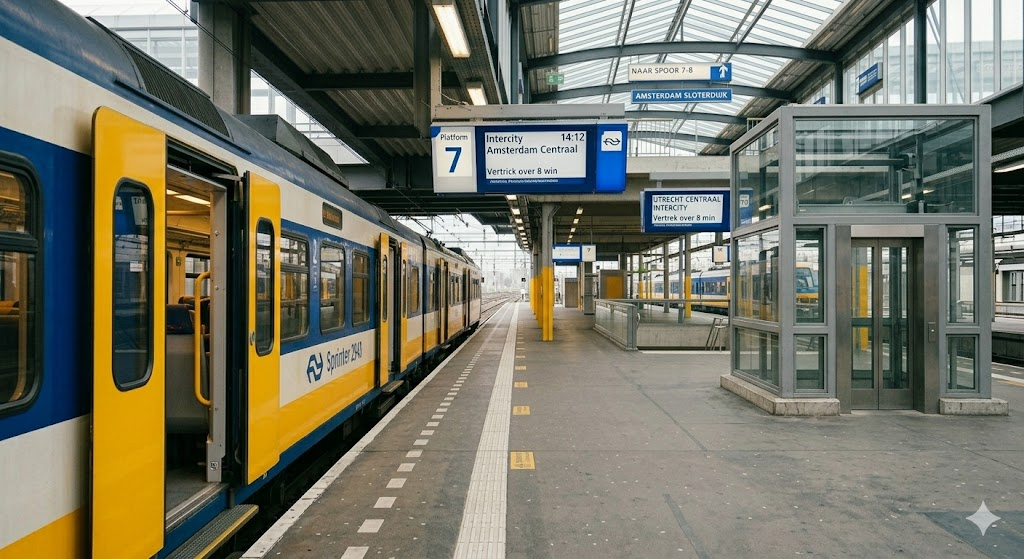
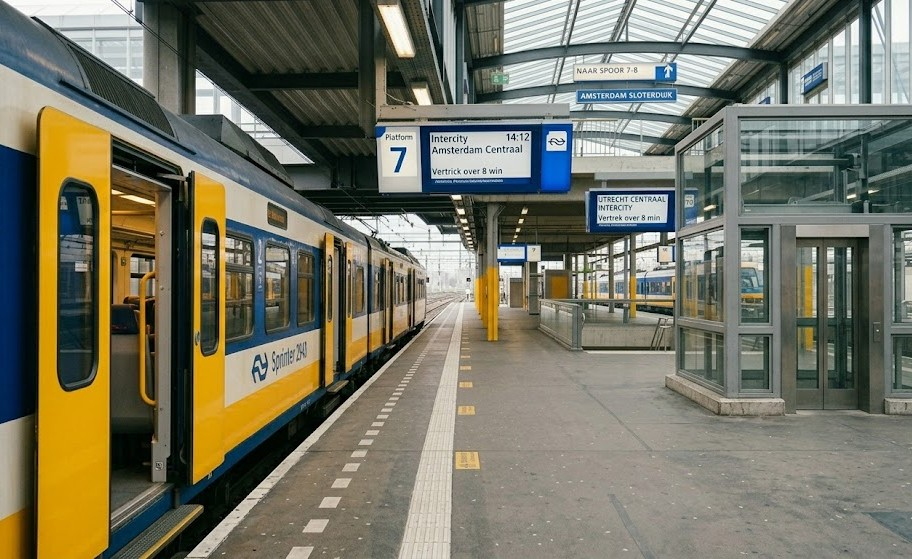
Level 2 Hitboxes Added

diff --git a/ink/src/data/motorialData.js b/ink/src/data/motorialData.js
@@ -1,4 +1,5 @@
 export const levels = [
+  // LEVEL 1
   {
     image: "/images/motorial-obstacles/Entrance_Building.png",
 
@@ -83,21 +84,45 @@ export const levels = [
 
     obstacles: [
       {
-        id: "example-1",
-        label: "Voorbeeld obstakel",
+        id: "stairs",
+        label: "Trap",
+        top: "50%",
+        left: "60%",
+        width: "20%",
+        height: "15%",
+      },
+      {
+        id: "elevator-door",
+        label: "Smalle liftdeur",
         top: "40%",
-        left: "40%",
-        width: "10%",
-        height: "10%",
+        left: "85%",
+        width: "13%",
+        height: "35%",
+      },
+      {
+        id: "train-door",
+        label: "Treindeur + Ruimte tussen trein en perron",
+        top: "30%",
+        left: "10%",
+        width: "13%",
+        height: "65%",
       },
     ],
 
     obstacleCategories: {
-      "example-1": "space",
+      "stairs": "height",
+      "elevator-door": "space",
+      "train-door": "train",
     },
 
     categoryHints: {
-      space: "Tweede level hint voor ruimte.",
+      height: "Let op hoogteverschillen. Hoe kan iemand in een rolstoel hier overheen komen?",
+      space: "Houd er rekening mee dat een rolstoel meer ruimte nodig heeft dan een lopend persoon.",
+      train: "Denk na over hoe iemand in een rolstoel in en uit de trein stapt.",
     },
   },
+
+
+
 ];
+

diff --git a/ink/src/components/Minigames/Motorial/motorial.css b/ink/src/components/Minigames/Motorial/motorial.css
@@ -25,7 +25,7 @@
 /* HOTSPOTS */
 .hotspot {
   position: absolute;
-  background: transparent;
+  background: transparent; /* Maak zichtbaar als je wil testen */
   border: none;
   cursor: pointer;
   transition:
